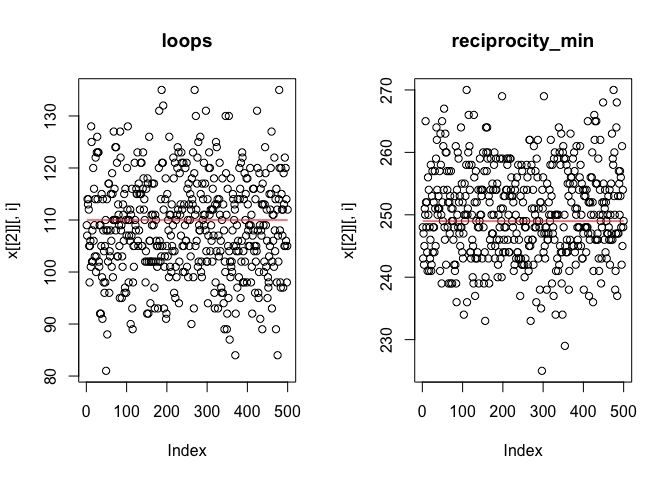
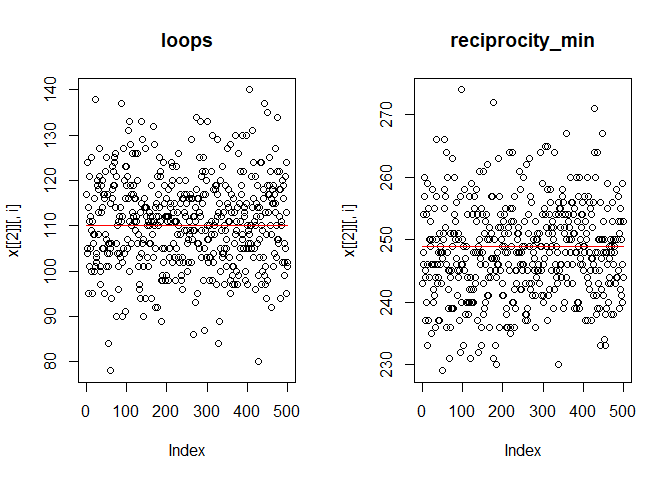
update link to study in Social Networks and rebuild README

diff --git a/README.md b/README.md
@@ -28,7 +28,7 @@ the analysis of mobility tables as weighted networks with an application
 to faculty hiring networks. Social Networks, 68, 264-278.
 
 [Link to the study in Social
-Networks](https://www.sciencedirect.com/science/article/pii/S0378873321000654).
+Networks](https://doi.org/10.1016/j.socnet.2021.08.003).
 
 [Pre-print with minor differences to the journal
 version](https://osf.io/preprints/socarxiv/n86rx/).
@@ -301,7 +301,7 @@ myResDN <- monanEstimate(
   fish = FALSE
 )
 #> Starting phase 1
-#> R Version:  R version 4.3.1 (2023-06-16)
+#> R Version:  R version 4.2.3 (2023-03-15 ucrt)
 #> snowfall 1.84-6.3 initialized (using snow 0.4-4): parallel execution on 4 CPUs.
 #> Library MoNAn loaded.
 #> Library MoNAn loaded in cluster.
@@ -325,17 +325,17 @@ myResDN <- monanEstimate(
 #> 
 #> New parameters:
 #> loops 
-#>  2.46396686901172 
+#>  2.442221628881 
 #>  reciprocity_min 
-#>  0.841726185531432 
+#>  0.814088551714832 
 #>  dyadic_covariate sameRegion 
-#>  1.67267047987559 
+#>  1.68106241441549 
 #>  alter_covariate size 
-#>  0.0390441265668085 
+#>  0.0381178059989281 
 #>  resource_covar_to_node_covar region sex 
-#>  -0.699526791016032 
+#>  -0.693799226921759 
 #>  loops_resource_covar sex 
-#>  -0.661677407486189 
+#>  -0.768988633051589 
 #> 
 #> Sub phase2:
 #>  burn-in 12614 steps
@@ -345,17 +345,17 @@ myResDN <- monanEstimate(
 #> 
 #> New parameters:
 #> loops 
-#>  2.58945551927677 
+#>  2.615529364412 
 #>  reciprocity_min 
-#>  0.822649502726496 
+#>  0.816463533865339 
 #>  dyadic_covariate sameRegion 
-#>  1.68941893211365 
+#>  1.69729348816156 
 #>  alter_covariate size 
-#>  0.0377791832157455 
+#>  0.0365807086442701 
 #>  resource_covar_to_node_covar region sex 
-#>  -0.646629953302649 
+#>  -0.658570679586027 
 #>  loops_resource_covar sex 
-#>  -0.38756770740513 
+#>  -0.381282530934528 
 #> 
 #> Sub phase3:
 #>  burn-in 12614 steps
@@ -365,17 +365,17 @@ myResDN <- monanEstimate(
 #> 
 #> New parameters:
 #> loops 
-#>  2.58295031015221 
+#>  2.5910989797839 
 #>  reciprocity_min 
-#>  0.823066219155376 
+#>  0.811886839843449 
 #>  dyadic_covariate sameRegion 
-#>  1.68182799583606 
+#>  1.69010031133568 
 #>  alter_covariate size 
-#>  0.0360266312274088 
+#>  0.038053152454337 
 #>  resource_covar_to_node_covar region sex 
-#>  -0.64507836617328 
+#>  -0.642777824450907 
 #>  loops_resource_covar sex 
-#>  -0.364952198083325
+#>  -0.35696782871491
 #> 
 #> Stopping cluster
 #> Starting phase 3:
@@ -410,7 +410,7 @@ estimates), another run is necessary.
 
 ``` r
 max(abs(myResDN$convergenceStatistics))
-#> [1] 0.1776716
+#> [1] 0.1785702
 ```
 
 If convergence is too high, update algorithm, re-run estimation with
@@ -437,7 +437,7 @@ myResDN <- monan07(
 ``` r
 # check convergence
 max(abs(myResDN$convergenceStatistics))
-#> [1] 0.1776716
+#> [1] 0.1785702
 ```
 
 In case convergence is still poor, updating the algorithm might be
@@ -450,19 +450,19 @@ convergence ratio. All values in the final column should be below 0.1
 myResDN
 #> Results
 #>                                   Effects   Estimates StandardErrors
-#> 1                                   loops  2.58295031     0.19060758
-#> 2                         reciprocity_min  0.82306622     0.17990564
-#> 3             dyadic_covariate sameRegion  1.68182800     0.11604643
-#> 4                    alter_covariate size  0.03602663     0.02403609
-#> 5 resource_covar_to_node_covar region sex -0.64507837     0.16794888
-#> 6                loops_resource_covar sex -0.36495220     0.22056637
-#>   Convergence
-#> 1 -0.14376262
-#> 2  0.17767159
-#> 3  0.07507506
-#> 4 -0.02198822
-#> 5  0.02559527
-#> 6 -0.09638885
+#> 1                                   loops  2.59109898     0.18517339
+#> 2                         reciprocity_min  0.81188684     0.18116939
+#> 3             dyadic_covariate sameRegion  1.69010031     0.10921098
+#> 4                    alter_covariate size  0.03805315     0.02418066
+#> 5 resource_covar_to_node_covar region sex -0.64277782     0.16996505
+#> 6                loops_resource_covar sex -0.35696783     0.21709701
+#>     Convergence
+#> 1  0.0727756157
+#> 2 -0.1323062248
+#> 3 -0.0009534606
+#> 4  0.1785702475
+#> 5 -0.0169035033
+#> 6  0.0643966510
 ```
 
 ## Diagnostics of the estimated model
@@ -476,7 +476,7 @@ problematic and indicate that a higher thinning is needed.
 
 ``` r
 autoCorrelationTest(myResDN)
-#> [1] 0.09352938
+#> [1] 0.09450437
 ```
 
 The output of extractTraces indicates the correlation of statistics
@@ -508,7 +508,7 @@ test_ME.2 <- scoreTest(myResDN, myEffects2)
 test_ME.2
 #> Results
 #>            Effects pValuesParametric pValuesNonParametric
-#> 1 transitivity_min      7.781315e-09                    0
+#> 1 transitivity_min       5.30274e-09                    0
 #> 
 #>  Parametric p-values: small = more significant 
 #>  Non-parametric p-values: further away from 0.5 = more significant
